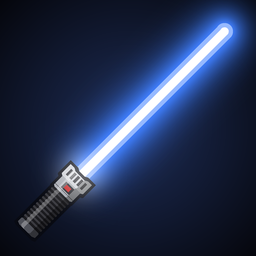
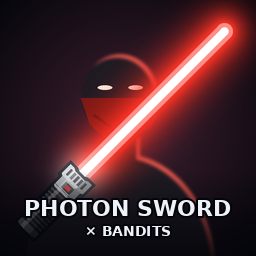
Give each mod its own art
Each mod now has its own blade color and an emblem behind the sword:
Forms purple in an enso (its slash trail), the A-Life patch green over
a heartbeat the blade spikes, the Bandits patch red before a masked
bandit lit by the blade. Photon Sword keeps its blue. The Workshop
previews carry each mod's title.

diff --git a/tools/gen_art.py b/tools/gen_art.py
@@ -1,17 +1,19 @@
 #!/usr/bin/env python3
 """Paints the mods' stylized art: an ignited photon sword, drawn flat with a glowing blade.
 
-    python3 tools/gen_art.py [--color NAME]
+    python3 tools/gen_art.py
 
-Writes, for every mod in the repo (they share one look):
-  <Mod>/preview.png                     256x256 Workshop thumbnail
+Writes, for every mod in the repo:
+  <Mod>/preview.png                     256x256 Workshop thumbnail (the poster, titled)
   <Mod>/Contents/mods/<Mod>/42/poster.png   256x256 mod list poster
   <Mod>/Contents/mods/<Mod>/42/icon.png     32x32 mod list icon (transparent)
 
+Each mod has its own blade color, and its own emblem behind the sword: Forms an enso, its slash
+trail; the patches the mod they patch, fused with the sword (A-Life a heartbeat the blade spikes,
+shared with this repo's other A-Life patches; Bandits a masked bandit lit by the blade).
 The hilt is the model's own silhouette (gen_models.hilt_profile) and paint bands, widened so it
-reads at icon size; the blade is gen_models' default palette color unless --color picks another.
-Everything is drawn upright at 4x, turned 45 degrees, and downscaled for clean edges. Needs Pillow
-and numpy (for gen_models).
+reads at icon size. Everything is drawn upright at 4x, turned 45 degrees, and downscaled for clean
+edges. Needs Pillow, numpy (for gen_models), and the DejaVu fonts (for the preview titles).
 """
 
 import argparse
@@ -19,13 +21,12 @@ import math
 import os
 import sys
 
-from PIL import Image, ImageDraw, ImageFilter
+from PIL import Image, ImageDraw, ImageFilter, ImageFont
 
 sys.path.insert(0, os.path.dirname(os.path.abspath(__file__)))
 from gen_models import BLADE_PROFILE, BLADE_RADIUS, PALETTE, hilt_profile, mix  # noqa: E402
 
 ROOT = os.path.join(os.path.dirname(os.path.abspath(__file__)), "..")
-MODS = ("PhotonSword", "PhotonSwordForms", "PhotonSwordALife", "PhotonSwordBandits")
 SS = 4  # supersampling
 POMMEL_Y = hilt_profile()[0][0]
 TIP_Y = BLADE_PROFILE[-1][0]
@@ -140,10 +141,125 @@ def background(size, color):
                            Image.new("RGBA", (side, side), inner + (255,)), grad)
 
 
-def framed(size, color):
+def glow_line(img, points, color, width, blur, core=True):
+    """A glowing polyline on img (in place): a blurred halo in color, then a lighter core."""
+    halo = Image.new("RGBA", img.size, color + (0,))
+    mask = Image.new("L", img.size, 0)
+    ImageDraw.Draw(mask).line(points, fill=200, width=int(width * 3), joint="curve")
+    halo.putalpha(mask.filter(ImageFilter.GaussianBlur(blur)))
+    img.alpha_composite(halo)
+    d = ImageDraw.Draw(img)
+    d.line(points, fill=mix(color, (255, 255, 255), 0.35) + (255,), width=int(width), joint="curve")
+    if core:
+        d.line(points, fill=(255, 255, 255, 255), width=max(1, int(width * 0.35)), joint="curve")
+
+
+def heartbeat(side, height=0.5):
+    """A heartbeat trace across the canvas, its beat where the blade crosses it (the blade runs
+    corner to corner, so at x = 1 - height)."""
+    x0 = 1 - height
+    shape = [(0, 0), (x0 - 0.22, 0), (x0 - 0.17, -0.035), (x0 - 0.12, 0), (x0 - 0.05, 0),
+             (x0 - 0.02, 0.05), (x0 + 0.04, -0.27), (x0 + 0.10, 0.17), (x0 + 0.14, 0),
+             (x0 + 0.22, 0), (x0 + 0.28, -0.06), (x0 + 0.34, 0), (1, 0)]
+    return [(x * side, (height + y) * side) for x, y in shape]
+
+
+def alife(img, color, side):
+    """Project A-Life: a heartbeat in the blade's color, beating where the blade crosses it."""
+    glow_line(img, heartbeat(side), color, side * 0.018, side * 0.02)
+
+
+def enso(img, color, side):
+    """Forms: a brushed enso round the sword, a slash trail that swells, then thins and fades."""
+    cx = cy = side / 2
+    radius, thick = side * 0.39, side * 0.08
+    start, sweep, steps = math.radians(10), math.radians(300), 240  # ends behind the tip
+    layer = Image.new("RGBA", img.size, (0, 0, 0, 0))
+    d = ImageDraw.Draw(layer)
+    light = mix(color, (255, 255, 255), 0.3)
+    for i in range(steps):
+        t0, t1 = i / steps, (i + 1) / steps
+        t = (t0 + t1) / 2
+        # The head of the stroke (t = 1) is thick and bright; the tail thins and fades out.
+        w = thick * (0.08 + 0.92 * t ** 1.4) * min(1, (1 - t) * 14 + 0.25)
+        alpha = int(255 * min(1, 0.1 + t ** 0.8))
+        pts = []
+        for tt, r in ((t0, radius + w / 2), (t1, radius + w / 2), (t1, radius - w / 2), (t0, radius - w / 2)):
+            ang = start + sweep * tt
+            pts.append((cx + math.cos(ang) * r, cy + math.sin(ang) * r))
+        d.polygon(pts, fill=light + (alpha,))
+    halo = Image.new("RGBA", img.size, color + (0,))
+    halo.putalpha(layer.getchannel("A").filter(ImageFilter.GaussianBlur(side * 0.025)).point(lambda v: v * 0.8))
+    img.alpha_composite(halo)
+    img.alpha_composite(layer.filter(ImageFilter.GaussianBlur(side * 0.002)))
+
+
+def bandit(img, color, side):
+    """Bandits: a masked bandit's head and shoulders behind the blade, lit from it."""
+    s = side
+    body = Image.new("L", img.size, 0)
+    bd = ImageDraw.Draw(body)
+    hx, hy, hr = 0.47 * s, 0.38 * s, 0.15 * s
+    bd.ellipse([hx - hr, hy - hr * 1.12, hx + hr, hy + hr * 1.12], fill=255)
+    bd.rectangle([hx - hr * 0.5, hy, hx + hr * 0.5, 0.64 * s], fill=255)
+    bd.chord([0.1 * s, 0.6 * s, 0.84 * s, 1.5 * s], 180, 360, fill=255)
+    # Lit from the blade, up and to the right: a soft rim on that side of the silhouette.
+    shifted = Image.new("L", img.size, 0)
+    shifted.paste(body, (-int(s * 0.014), int(s * 0.014)))
+    rim_mask = Image.composite(body, Image.new("L", img.size, 0), shifted.point(lambda v: 255 - v))
+    rim = Image.new("RGBA", img.size, mix(color, (255, 255, 255), 0.2) + (0,))
+    rim.putalpha(rim_mask.filter(ImageFilter.GaussianBlur(s * 0.006)).point(lambda v: v * 0.85))
+    img.paste(Image.new("RGBA", img.size, (30, 26, 34, 255)), (0, 0), body)
+    img.alpha_composite(rim)
+    d = ImageDraw.Draw(img)
+    # The bandana over the lower face, its knot behind, and the eyes in the gap above it.
+    cloth = mix(color, (30, 6, 8), 0.6) + (255,)
+    fold = mix(color, (30, 6, 8), 0.75) + (255,)
+    d.polygon([(hx - hr * 1.03, hy + hr * 0.02), (hx + hr * 1.03, hy + hr * 0.02),
+               (hx + hr * 0.8, hy + hr * 0.7), (hx, hy + hr * 1.45), (hx - hr * 0.8, hy + hr * 0.7)], fill=cloth)
+    d.line([(hx - hr * 0.7, hy + hr * 0.45), (hx, hy + hr * 0.95), (hx + hr * 0.7, hy + hr * 0.45)],
+           fill=fold, width=int(hr * 0.08))
+    for ex in (-0.4, 0.4):
+        x, y = hx + ex * hr, hy - hr * 0.25
+        d.ellipse([x - hr * 0.19, y - hr * 0.06, x + hr * 0.19, y + hr * 0.06], fill=(255, 236, 220, 255))
+
+
+# Mod -> (blade color, emblem drawn behind the sword or None, preview title lines).
+MODS = {
+    "PhotonSword": (PALETTE["Blue"], None, ("PHOTON SWORD",)),
+    "PhotonSwordForms": (PALETTE["Purple"], enso, ("PHOTON SWORD", "FORMS")),
+    "PhotonSwordALife": (PALETTE["Green"], alife, ("PHOTON SWORD", "\u00d7 PROJECT A-LIFE")),
+    "PhotonSwordBandits": (PALETTE["Red"], bandit, ("PHOTON SWORD", "\u00d7 BANDITS")),
+}
+FONT = "/usr/share/fonts/truetype/dejavu/DejaVuSans-Bold.ttf"
+
+
+def framed(size, color, emblem):
     img = background(size, color)
+    if emblem:
+        emblem(img, color, size * SS)
     img = Image.alpha_composite(img, render_sword(size, color, radial=1.9, glow=1.0, fill=0.8))
     return img.resize((size, size), Image.LANCZOS)
+
+
+def titled(art, lines):
+    """The poster with its title over a dark fade at the bottom, for the Workshop thumbnail."""
+    img = art.copy()
+    w, h = img.size
+    fade = Image.linear_gradient("L").resize((w, h // 3))
+    img.paste(Image.new("RGBA", fade.size, (4, 5, 10, 255)), (0, h - fade.height), fade.point(lambda v: v * 0.9))
+    d = ImageDraw.Draw(img)
+    y = h - 12
+    for i in reversed(range(len(lines))):
+        size = (22, 14)[min(i, 1)]
+        font = ImageFont.truetype(FONT, size)
+        while d.textlength(lines[i], font=font) > w - 20:  # shrink to fit the width
+            size -= 1
+            font = ImageFont.truetype(FONT, size)
+        y -= font.size + 4
+        d.text((w / 2, y), lines[i], font=font, fill=(240, 242, 250), anchor="mt",
+               stroke_width=2, stroke_fill=(4, 5, 10))
+    return img
 
 
 def icon(color):
@@ -152,20 +268,14 @@ def icon(color):
 
 
 def main():
-    parser = argparse.ArgumentParser(description=__doc__.splitlines()[0])
-    parser.add_argument("--color", default=next(iter(PALETTE)), choices=PALETTE)
-    args = parser.parse_args()
-    color = PALETTE[args.color]
-
-    preview = poster = framed(256, color)
-    small = icon(color)
-    for mod in MODS:
-        preview.save(os.path.join(ROOT, mod, "preview.png"), optimize=True)
+    argparse.ArgumentParser(description=__doc__.splitlines()[0]).parse_args()
+    for mod, (color, emblem, lines) in MODS.items():
+        poster = framed(256, color, emblem)
+        titled(poster, lines).convert("RGB").save(os.path.join(ROOT, mod, "preview.png"), optimize=True)
         info_dir = os.path.join(ROOT, mod, "Contents", "mods", mod, "42")
-        poster.save(os.path.join(info_dir, "poster.png"), optimize=True)
-        small.save(os.path.join(info_dir, "icon.png"), optimize=True)
-    print(f"Wrote preview.png (256), poster.png (256), and icon.png (32) for {len(MODS)} mods "
-          f"({args.color} blade)")
+        poster.convert("RGB").save(os.path.join(info_dir, "poster.png"), optimize=True)
+        icon(color).save(os.path.join(info_dir, "icon.png"), optimize=True)
+    print(f"Wrote preview.png (256), poster.png (256), and icon.png (32) for {len(MODS)} mods")
 
 
 if __name__ == "__main__":

diff --git a/docs/NPC_PATCHES.md b/docs/NPC_PATCHES.md
@@ -33,7 +33,7 @@ way: if two patches need the same logic, move it into Photon Sword.
 | 11 | **No back-door spawns** | The NPC mod's own automatic loot or weapon scans never hand out photon swords, so feature 5 is the only way an NPC gets one. | Nothing to exclude | Both item types excluded from ModLoot (`PSA_ModLoot.lua`) |
 | 12 | **Sandbox section** | A section of the shared Photon Sword sandbox page (`page = PhotonSword`, registered with `PS.addSandboxSection`) with exactly `SpawnChance` and `BladeColor`, same labels, tooltips, ranges, and defaults. | Bandits NPCs section (`PSB_Sandbox.lua`) | Project A-Life NPCs section (`PSA_Sandbox.lua`) |
 | 13 | **Load order and requirements** | `require=\PhotonSword,\<NPC mod>`; `loadModAfter=\PhotonSword,\PhotonSwordForms,\<NPC mod>` (B42 writes mod ids with a leading backslash); works with or without Photon Sword Forms. | `Bandits2` | `ProjectALifeNPCs` |
-| 14 | **Shared art and docs** | Same preview, poster, and icon (`tools/gen_art.py`); `mod.info` and `workshop.txt` describe features 1-11 (with 4b-4e); MIT licensed. | Yes | Yes |
+| 14 | **Art and docs** | Its own blade color and an emblem for the NPC mod, fused with the sword (`tools/gen_art.py`); `mod.info` and `workshop.txt` describe features 1-11 (with 4b-4e); MIT licensed. | Yes | Yes |
 
 ## Not supported in any NPC patch
 

diff --git a/docs/PhotonSwordForms.md b/docs/PhotonSwordForms.md
@@ -245,8 +245,8 @@ Known gaps to work on next:
   the left arm comes in under the right hand instead of wrapping around it).
 - The stance clips and their tools (`make_ready.py`, `make_rest.py`, `make_aim_beckon.py`,
   `make_guard.py`, `render.py`) are Photon Sword's; see the [README](../README.md#stance-animation-tools).
-- `python3 tools/gen_art.py` paints the art every mod in the repo shares: a stylized ignited photon
-  sword for `preview.png` (256x256), `42/poster.png` (256x256), and `42/icon.png` (32x32). See the
+- `python3 tools/gen_art.py` paints every mod's art: a stylized ignited photon sword, Forms' purple
+  in an enso, for `preview.png` (256x256), `42/poster.png` (256x256), and `42/icon.png` (32x32). See the
   [README](../README.md). `tools/anim/poster.py` still renders a character in the ready stance with
   Blender, if you want that look instead.
   Pass absolute output paths; Blender treats relative ones as relative to the blend file.

diff --git a/README.md b/README.md
@@ -325,7 +325,9 @@ The basics are implemented but **not yet tested in-game**.
   `gen_sounds.py`.
 - Pillow 12.1 draws the textures and icons, and `gen_art.py` paints every mod's Workshop preview
   (256x256), mod list poster (256x256), and icon (32x32): a stylized ignited sword built from the
-  hilt model's profile and paint, in the default blade color (`--color` picks another).
+  hilt model's profile and paint. Each mod has its own blade color and emblem: Photon Sword blue,
+  Forms purple in an enso (its slash trail), the A-Life patch green over a heartbeat the blade
+  spikes, the Bandits patch red before a masked bandit. The previews carry the mod's title.
 - FFmpeg 8.0 with libvorbis encodes the Ogg sound effects.
 - Blender 5.0 previews the generated meshes (`gen_models.py --preview` writes OBJs).
 - `tools/anim/` authors the stance clips from vanilla's animations (NumPy; `xfile.py` reads and
